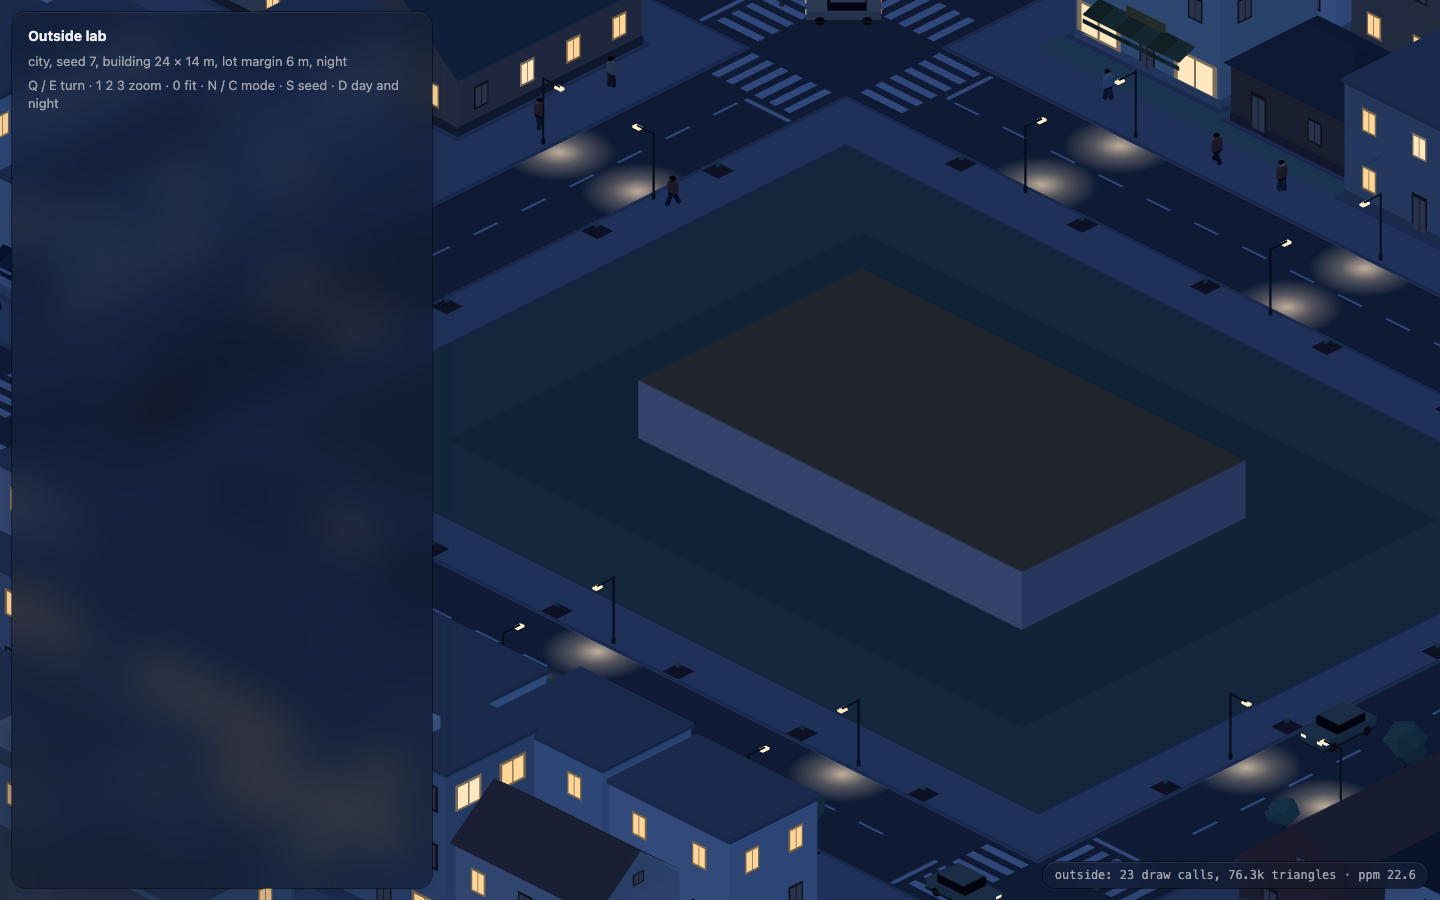
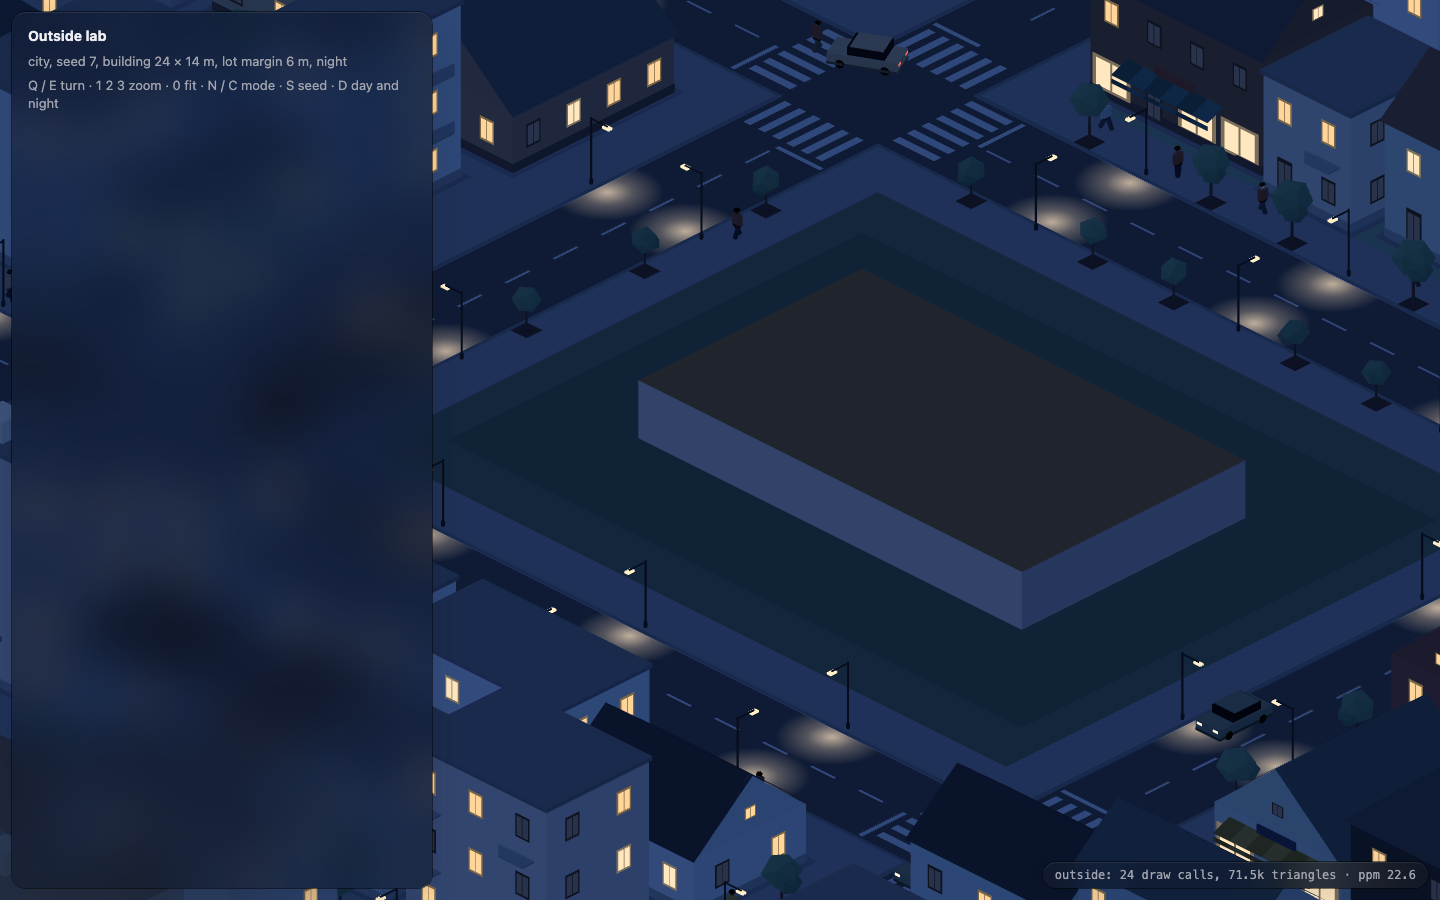
outside: slope light and tree shade baked into the ground, tufts and flowers, calmer timber, the office's moon

diff --git a/src/client/world/outside/build.js b/src/client/world/outside/build.js
@@ -2,7 +2,7 @@
 // repeated (trees, building parts, windows, lamps, cars, people) as InstancedMeshes, water with a moving sheen.
 // buildOutside(layout, palette, uniforms) -> { group, update(now, dt), dispose(), counts }.
 import { THREE, Parts, material, instanced, color, at, poolTexture } from "./parts.js";
-import { awning, flower, gableEnds, gableSlopes, hipRoof, lampHead, lampPole, reed, rock, tree, unitBox, windowPane } from "./models.js";
+import { awning, flower, tuft, gableEnds, gableSlopes, hipRoof, lampHead, lampPole, reed, rock, tree, unitBox, windowPane } from "./models.js";
 import { TAG, LEVEL, ROAD, STOREY, WATER, sampleGrid } from "./gen.js";
 import { Movers } from "./movers.js";
 
@@ -45,10 +45,17 @@ function buildNature({ P, U, mat, add, layout }) {
     const pos = new Float32Array(nx * nz * 3), col = new Float32Array(nx * nz * 3);
     const base = N.ground.map((h) => new THREE.Color(h));
     const c = new THREE.Color();
+    const shadeAt = treeShade(layout.trees);
+    const H = (i, j) => t.h[Math.min(nz - 1, Math.max(0, j)) * nx + Math.min(nx - 1, Math.max(0, i))];
     for (let j = 0; j < nz; j++) for (let i = 0; i < nx; i++) {
       const k = j * nx + i, h = t.h[k];
       pos.set([t.xs[i], h, t.zs[j]], k * 3);
-      c.copy(base[t.tag[k]] ?? base[1]).multiplyScalar(1 + t.tone[k] * 0.16 + Math.min(0.08, Math.max(0, h - 1.5) * 0.015));
+      // the sun's side of a hill a little lighter, the far side darker (the key light comes from the front left)
+      const gx = (H(i + 1, j) - H(i - 1, j)) / ((t.xs[Math.min(nx - 1, i + 1)] - t.xs[Math.max(0, i - 1)]) || 1);
+      const gz = (H(i, j + 1) - H(i, j - 1)) / ((t.zs[Math.min(nz - 1, j + 1)] - t.zs[Math.max(0, j - 1)]) || 1);
+      const nl = Math.hypot(gx, 1, gz), lit = (-gx * SUN[0] + SUN[1] - gz * SUN[2]) / nl - SUN[1];
+      const slope = Math.max(0.8, Math.min(1.16, 1 + lit * 1.1));
+      c.copy(base[t.tag[k]] ?? base[1]).multiplyScalar((1 + t.tone[k] * 0.16) * slope * shadeAt(t.xs[i], t.zs[j]));
       col.set([c.r, c.g, c.b], k * 3);
     }
     const idx = [];
@@ -128,7 +135,7 @@ function buildNature({ P, U, mat, add, layout }) {
       const C = [b.x + nx_ * w1, yAt(b.x + nx_ * w1, b.z + nz_ * w1), b.z + nz_ * w1], D = [b.x - nx_ * w1, yAt(b.x - nx_ * w1, b.z - nz_ * w1), b.z - nz_ * w1];
       const up = (B[0] - A[0]) * (D[2] - A[2]) - (B[2] - A[2]) * (D[0] - A[0]) < 0;
       if (up) s.pos.push(...A, ...B, ...D, ...A, ...D, ...C); else s.pos.push(...A, ...D, ...B, ...A, ...C, ...D);
-      const c = color((i * 7) % 5 ? N.path : N.pathEdge);
+      const c = color(N.path);
       for (let k = 0; k < 6; k++) s.col.push(c.r, c.g, c.b);
     }
     const br = layout.bridge;
@@ -143,9 +150,33 @@ function buildNature({ P, U, mat, add, layout }) {
     add(instanced(`trees:${kind}`, tree(kind, P.trees), mat("lit"), items, (x) => at(x.x, x.y, x.z, x.ry, 0, 0, x.s, x.s, x.s), (x) => grey(x.tone)));
   }
   add(instanced("rocks", rock(N.rock), mat("lit"), layout.rocks, (x) => at(x.x, x.y, x.z, x.ry, 0, 0, x.s, x.s, x.s), (x) => grey(x.tone)));
-  add(instanced("flowers", flower(), mat("lit"), layout.flowers, (x) => at(x.x, x.y, x.z), (x) => T(N.flowers[x.c % N.flowers.length])));
+  add(instanced("flowers", flower(N.reed), mat("lit"), layout.flowers, (x) => at(x.x, x.y, x.z, x.ry ?? 0), (x) => T(N.flowers[x.c % N.flowers.length])));
+  add(instanced("tufts", tuft(N.tuft, N.tuft2), mat("lit"), layout.tufts ?? [], (x) => at(x.x, x.y, x.z, x.ry, 0, 0, x.s, x.s, x.s)));
   add(instanced("reeds", reed(N.reed, P.night ? "#4a4a40" : "#7a5a3a"), mat("lit"), layout.reeds, (x) => at(x.x, x.y, x.z, x.ry, 0, 0, x.s, x.s, x.s)));
   return null;
+}
+
+// Toward the key light (scene.js puts it at x - 16, y 24, z + 17 from the office).
+const SUN = (() => { const v = [-16, 24, 17], l = Math.hypot(...v); return v.map((a) => a / l); })();
+
+// How much the trees darken the ground under them: a soft patch per tree, a little away from the sun.
+function treeShade(trees) {
+  const cell = 4, grid = new Map(), key = (i, j) => i * 100003 + j;
+  for (const t of trees) {
+    const k = key(Math.floor(t.x / cell), Math.floor(t.z / cell));
+    if (!grid.has(k)) grid.set(k, []);
+    grid.get(k).push(t);
+  }
+  return (x, z) => {
+    let dark = 0;
+    const i0 = Math.floor(x / cell), j0 = Math.floor(z / cell);
+    for (let i = i0 - 1; i <= i0 + 1; i++) for (let j = j0 - 1; j <= j0 + 1; j++) for (const t of grid.get(key(i, j)) ?? []) {
+      const r = (t.kind === "shrub" ? 1.0 : 2.0) * t.s + 0.6;
+      const d = Math.hypot(x - (t.x + 0.7 * t.s), z - (t.z - 0.55 * t.s));
+      if (d < r) dark += (1 - d / r) * 0.9;
+    }
+    return 1 - 0.26 * Math.min(1, dark);
+  };
 }
 
 // A small arched footbridge: deck planks rising to the middle, posts and a rail either side.

diff --git a/src/client/world/outside/gen.js b/src/client/world/outside/gen.js
@@ -10,7 +10,7 @@ export const PAD = 64;
 export const FADE = { from: 34, to: 60 };
 export const GROUND = -0.115;
 export const CELL = 2;
-export const CAPS = { cars: 40, people: 60, trees: 1000, flowers: 520, rocks: 140, reeds: 280 };
+export const CAPS = { cars: 40, people: 60, trees: 1000, flowers: 420, rocks: 140, reeds: 280, tufts: 900 };
 // Sims scale (a person is 1.35 m): two lanes of 3 m, a 3 m pavement, a car 3.3 m long.
 export const ROAD = { w: 6, walk: 3, lane: 1.5 };
 export const LEVEL = { road: -0.11, walk: -0.05 };
@@ -300,7 +300,7 @@ function nature(R, s, lot, ext) {
     const valley = smooth(2, 20, Math.min(dr, pd + 2));
     const hill = Math.max(0, fbm(x / 34, z / 34, s + 1, 4) - 0.36) * 2.4;
     const detail = (fbm(x / 9, z / 9, s + 3, 2) - 0.5) * 0.35 * smooth(4, 14, dl);
-    const land = 0.42 + Math.min(sight(dl) * 0.8, 8 * hill * smooth(6, 30, dl)) * valley + detail;
+    const land = 0.42 + Math.min(sight(dl) * 0.8, 13 * hill * smooth(6, 34, dl)) * valley + detail;
     let h = GROUND + (land - GROUND) * smooth(0.5, 7.5, dl);
     const dw = Math.min(dr, pd);
     if (dw < WATER.bank) h = WATER.bed + (h - WATER.bed) * smooth(-0.8, WATER.bank, dw);
@@ -354,7 +354,7 @@ function nature(R, s, lot, ext) {
   trees = thin(trees, CAPS.trees, rng(s + 17));
 
   // Rocks by the water and on the hills, flowers in the meadows, reeds along the banks.
-  const rocks = [], flowers = [], reeds = [];
+  const rocks = [], flowers = [], reeds = [], tufts = [];
   for (let i = 0; i < 900 && rocks.length < CAPS.rocks; i++) {
     const x = ext.minX + R() * (ext.maxX - ext.minX), z = ext.minZ + R() * (ext.maxZ - ext.minZ), k = R(), sc = R();
     const dl = dLot(x, z);
@@ -371,7 +371,16 @@ function nature(R, s, lot, ext) {
     if (dl < 3 || dl > FADE.to - 4 || meadowAt(x, z) < 0.6) continue;
     const rv = halfAt(x, z);
     if (rv.d - rv.w < WATER.bank || pondD(x, z) < WATER.bank || pathD(x, z) < 1) continue;
-    flowers.push({ x: r2(x), z: r2(z), y: r3(heightAt(x, z)), c: Math.floor(c * 5) });
+    flowers.push({ x: r2(x), z: r2(z), y: r3(heightAt(x, z)), c: Math.floor(c * 5), ry: r2(R() * 6.28) });
+  }
+  // tufts of longer grass, in loose drifts, so the open ground is not a flat sheet
+  for (let i = 0; i < 9000 && tufts.length < CAPS.tufts; i++) {
+    const x = ext.minX + R() * (ext.maxX - ext.minX), z = ext.minZ + R() * (ext.maxZ - ext.minZ), k = R(), sc = R();
+    const dl = dLot(x, z);
+    if (dl < 1.5 || dl > FADE.to - 6 || fbm(x / 5, z / 5, s + 23, 2) < 0.5 + k * 0.12) continue;
+    const rv = halfAt(x, z);
+    if (rv.d - rv.w < WATER.bank - 0.5 || pondD(x, z) < WATER.bank - 0.5 || pathD(x, z) < 1.1 || bridgeD(x, z) < 1) continue;
+    tufts.push({ x: r2(x), z: r2(z), y: r3(heightAt(x, z) - 0.03), s: r2(0.9 + sc * 0.7), ry: r2(R() * 6.28) });
   }
   const shore = (pts, wOf) => {
     for (let i = 1; i < pts.length - 1 && reeds.length < CAPS.reeds; i++) {
@@ -407,7 +416,7 @@ function nature(R, s, lot, ext) {
     water: { level: WATER.level, river: riverPts, pond },
     path: { points: pathOut, all: path, width: 1.4, entry: { x: r2(start.x), z: r2(start.z) } },
     bridge,
-    trees, rocks, flowers, reeds,
+    trees, rocks, flowers, reeds, tufts,
   };
 }
 

diff --git a/src/client/world/outside/palette.js b/src/client/world/outside/palette.js
@@ -4,9 +4,9 @@
 const DAY = {
   nature: {
     bg: "#b4c0a2",
-    ground: ["#a8b98c", "#a3b487", "#b8bd8c", "#8f9f74", "#c2b894", "#8c8f7a", "#b9b78f"], // lawn grass meadow forest bank bed dry
+    ground: ["#a8b98c", "#a3b487", "#afb98a", "#8f9f74", "#c2b894", "#8c8f7a", "#b5b78f"], // lawn grass meadow forest bank bed dry
     water: "#86a7ad", sheen: "#eef4f0", path: "#cfc2a3", pathEdge: "#c4b694",
-    rock: "#a9a59b", flowers: ["#f2efe6", "#e8d27a", "#d9a8b4", "#a9a3cf", "#e6b07a"], reed: "#8f9a62",
+    rock: "#a9a59b", flowers: ["#f2efe6", "#e8d27a", "#d9a8b4", "#a9a3cf", "#e6b07a"], reed: "#8f9a62", tuft: "#93a777", tuft2: "#a2b07c",
     bridge: { deck: "#a8875f", rail: "#a5533f", post: "#6b4f3a" },
   },
   trees: {
@@ -23,12 +23,12 @@ const DAY = {
     road: "#8e9094", mark: "#e9e6dc", walk: "#d2cdc3", kerb: "#bab4a8", pit: "#6d5d4c",
     shade: "#00000018",
     walls: {
-      timber: ["#a97b56", "#8a5d42", "#9a4f3e", "#c4a27a", "#3f3a36", "#b48a62"],
+      timber: ["#a58263", "#8a6650", "#93594b", "#c1a580", "#45403c", "#ad8d6c"],
       plaster: ["#ece6da", "#e6d8be", "#d9ddd0", "#e9d5c6", "#d6dee1", "#efe9df"],
       concrete: ["#c2c0b9", "#b0b0ab", "#c9c5bb", "#a9aba7", "#bdb7ad", "#cfcbc2"],
     },
     base: { timber: "#6d5444", plaster: "#b9b1a3", concrete: "#8f8e89" },
-    roofs: ["#5b5e64", "#46484e", "#9c6a52", "#6c7a73"],
+    roofs: ["#5d6066", "#4a4c52", "#977059", "#6e7a74"],
     flatRoof: "#9b988f", glass: "#93a7b2", frame: "#eeebe4", door: "#6b4f3a", shopGlass: "#a9bcc4",
     awnings: ["#5f8a87", "#c9a24a", "#a8553f", "#3f5170", "#7b8b5a"],
     noren: "#3f5170",
@@ -48,8 +48,8 @@ const NIGHT = {
   nature: {
     bg: "#24324a",
     ground: ["#6a8a80", "#66857c", "#6f8a80", "#4f6b66", "#7a8484", "#46596a", "#748680"],
-    water: "#3f5f86", sheen: "#c9dcff", path: "#8a8f96", pathEdge: "#80868e",
-    rock: "#7d8590", flowers: ["#c9d2e6", "#b8bd9a", "#a993b6", "#8f8fc4", "#b39b8f"], reed: "#5a6e66",
+    water: "#34506e", sheen: "#9fb6d8", path: "#8a8f96", pathEdge: "#80868e",
+    rock: "#7d8590", flowers: ["#c9d2e6", "#b8bd9a", "#a993b6", "#8f8fc4", "#b39b8f"], reed: "#5a6e66", tuft: "#5c7a72", tuft2: "#66837a",
     bridge: { deck: "#7a6a5c", rail: "#7d4a48", post: "#4a3d36" },
   },
   trees: {
@@ -92,5 +92,7 @@ export function paletteFor(theme = "light") {
   const out = { night, nature: { ...P.nature, ground: [...P.nature.ground] }, trees: P.trees, city: { ...P.city, ground: { ...P.city.ground } }, moon: P.moon, glow: P.glow ?? {} };
   const lawn = typeof theme === "object" && theme?.ground?.base;
   if (lawn) { out.nature.ground[0] = lawn; out.city.ground.lot = lawn; }
+  // the office's own moon, so the lawn round it lights the same as its garden
+  if (typeof theme === "object" && "moon" in (theme ?? {})) out.moon = theme.moon ?? "#000000";
   return out;
 }

diff --git a/src/client/world/outside/parts.js b/src/client/world/outside/parts.js
@@ -55,8 +55,11 @@ varying vec2 vOutXZ;${water ? "\nvarying vec2 vFlow;" : ""}`);
   {
     float wob = sin(vFlow.y * 5.3 + vFlow.x * 0.37 + uTime * 0.5) * 0.7 + sin(vFlow.x * 0.13 - vFlow.y * 2.0) * 1.3;
     float band = sin(vFlow.x * 1.7 - uTime * 1.3 + wob);
-    float glint = smoothstep(0.93, 1.0, band) * (1.0 - smoothstep(0.35, 0.8, abs(vFlow.y)));
-    diffuseColor.rgb = mix(diffuseColor.rgb, uSheen, glint * 0.22);
+    float patchy = smoothstep(0.2, 0.8, sin(vFlow.x * 0.23 + vFlow.y * 1.9 - uTime * 0.35) * 0.5 + sin(vFlow.x * 0.071 + 1.3) * 0.5);
+    float glint = smoothstep(0.94, 1.0, band) * patchy * (1.0 - smoothstep(0.3, 0.75, abs(vFlow.y)));
+    // darker mid-stream, lighter over the shallows
+    diffuseColor.rgb *= 0.9 + 0.14 * smoothstep(0.2, 0.95, abs(vFlow.y));
+    diffuseColor.rgb = mix(diffuseColor.rgb, uSheen, glint * 0.2);
   }`);
     }
     f = f.replace("#include <opaque_fragment>", `#include <opaque_fragment>
@@ -90,8 +93,9 @@ export class Parts {
     return this;
   }
   box(w, h, d, hex, x, y, z, ry = 0, o = {}) { const g = new THREE.BoxGeometry(w, h, d); g.translate(0, h / 2, 0); return this.add(g, hex, at(x, y, z, ry, o.rx ?? 0, o.rz ?? 0)); }
-  cyl(r, h, hex, x, y, z, seg = 6, top = r) { const g = new THREE.CylinderGeometry(top, r, h, seg, 1, false); g.translate(0, h / 2, 0); return this.add(g, hex, at(x, y, z)); }
-  cone(r, h, hex, x, y, z, seg = 7, o = {}) { const g = new THREE.ConeGeometry(r, h, seg, 1, false); g.translate(0, h / 2, 0); return this.add(g, hex, at(x, y, z, o.ry ?? 0, o.rx ?? 0, o.rz ?? 0)); }
+  cyl(r, h, hex, x, y, z, seg = 6, top = r) { const g = new THREE.CylinderGeometry(top, r, h, seg, 1, true); g.translate(0, h / 2, 0); return this.add(g, hex, at(x, y, z)); }
+  // cones and cylinders are open at the base: nothing here is ever seen from below
+  cone(r, h, hex, x, y, z, seg = 7, o = {}) { const g = new THREE.ConeGeometry(r, h, seg, 1, true); g.translate(0, h / 2, 0); return this.add(g, hex, at(x, y, z, o.ry ?? 0, o.rx ?? 0, o.rz ?? 0)); }
   ico(r, hex, x, y, z, sy = 1, sx = 1, sz = 1, ry = 0) { const g = new THREE.IcosahedronGeometry(r, 0); g.scale(sx, sy, sz); return this.add(g, hex, at(x, y, z, ry)); }
   // A flat quad at height y, from (x0, z0) to (x1, z1), facing up.
   quad(x0, z0, x1, z1, y, hex) {

diff --git a/docs/design/outside/lab.html b/docs/design/outside/lab.html
@@ -64,10 +64,12 @@ sc.scene.add(office);
 let L = lookFor(theme);
 function stand() {
   office.clear();
-  const ground = new THREE.Mesh(new THREE.PlaneGeometry(W + 120, D + 120).rotateX(-Math.PI / 2), new THREE.MeshLambertMaterial({ color: L.ground.base }));
+  // the office lights everything outdoors with the moon at night (kit.js roomMaterial): emissive = colour × moon
+  const outdoor = (hex) => new THREE.MeshLambertMaterial({ color: hex, emissive: new THREE.Color(hex).multiply(new THREE.Color(L.moon ?? "#000000")) });
+  const ground = new THREE.Mesh(new THREE.PlaneGeometry(W + 120, D + 120).rotateX(-Math.PI / 2), outdoor(L.ground.base));
   ground.position.y = -0.12;
   ground.receiveShadow = true;
-  const plot = new THREE.Mesh(new THREE.PlaneGeometry(lot.maxX - lot.minX, lot.maxZ - lot.minZ).rotateX(-Math.PI / 2), new THREE.MeshLambertMaterial({ color: L.ground.alt }));
+  const plot = new THREE.Mesh(new THREE.PlaneGeometry(lot.maxX - lot.minX, lot.maxZ - lot.minZ).rotateX(-Math.PI / 2), outdoor(L.ground.alt));
   plot.position.set((lot.minX + lot.maxX) / 2, -0.118, (lot.minZ + lot.maxZ) / 2);
   plot.receiveShadow = true;
   const box = new THREE.Mesh(new THREE.BoxGeometry(W, 2.95, D), [L.wall.face, L.wall.face, L.cap, L.wall.face, L.wall.face, L.wall.face].map((c) => new THREE.MeshLambertMaterial({ color: c })));

diff --git a/test/client/outside.test.ts b/test/client/outside.test.ts
@@ -57,6 +57,7 @@ describe("outside: nothing reaches into the lot", () => {
         for (const r of L.rocks) circle("rock", r.x, r.z, 0.8 * r.s);
         for (const f of L.flowers) circle("flower", f.x, f.z, 0.1);
         for (const r of L.reeds) circle("reed", r.x, r.z, 0.3);
+        for (const t of L.tufts) circle("tuft", t.x, t.z, 0.2);
         for (const p of L.water.river) circle("river", p.x, p.z, p.w + WATER.bank);
         const pond = L.water.pond;
         if (pond) circle("pond", pond.x, pond.z, Math.max(pond.rx, pond.rz) + WATER.bank);
@@ -167,6 +168,7 @@ describe("outside: caps and the view over the lot", () => {
         expect(L.rocks.length).toBeLessThanOrEqual(CAPS.rocks);
         expect(L.flowers.length).toBeLessThanOrEqual(CAPS.flowers);
         expect(L.reeds.length).toBeLessThanOrEqual(CAPS.reeds);
+        expect(L.tufts.length).toBeLessThanOrEqual(CAPS.tufts);
         expect(L.trees.length).toBeGreaterThan(100);
       }
       const TALL: Record<string, number> = { conifer: 5.2, birch: 4.6, maple: 4.2, "maple-red": 4.2, shrub: 1.3, round: 4.2, street: 4.2 };

diff --git a/src/client/world/outside/models.js b/src/client/world/outside/models.js
@@ -45,8 +45,21 @@ export function rock(hex) {
   return new Parts().ico(0.55, hex, 0, 0.18, 0, 0.62, 1, 0.8).ico(0.32, hex, 0.42, 0.1, 0.18, 0.6).geometry();
 }
 
-export function flower() {
-  return new Parts().add(new THREE.OctahedronGeometry(0.09, 0), W, at(0, 0.14, 0)).geometry();
+// A few blooms on short stems; white takes the flower's colour.
+export function flower(stem) {
+  const p = new Parts();
+  for (const [x, z, h] of [[0, 0, 0.2], [0.2, 0.1, 0.15], [-0.12, 0.18, 0.17]]) {
+    p.cone(0.018, h, stem, x, 0, z, 3);
+    p.add(new THREE.OctahedronGeometry(0.085, 0), W, at(x, h + 0.02, z));
+  }
+  return p.geometry();
+}
+
+// A tuft of long grass: a few blades leaning out.
+export function tuft(a, b) {
+  const p = new Parts();
+  for (const [x, z, h, rx, rz, c] of [[0, 0, 0.5, 0.1, 0.15, a], [0.09, 0.05, 0.4, -0.3, 0.35, b], [-0.08, 0.06, 0.44, 0.35, -0.3, a], [0.03, -0.09, 0.36, -0.4, -0.1, b], [-0.05, -0.05, 0.3, 0.2, 0.4, b]]) p.cone(0.06, h, c, x, 0, z, 3, { rx, rz });
+  return p.geometry();
 }
 
 export function reed(hex, tip) {
